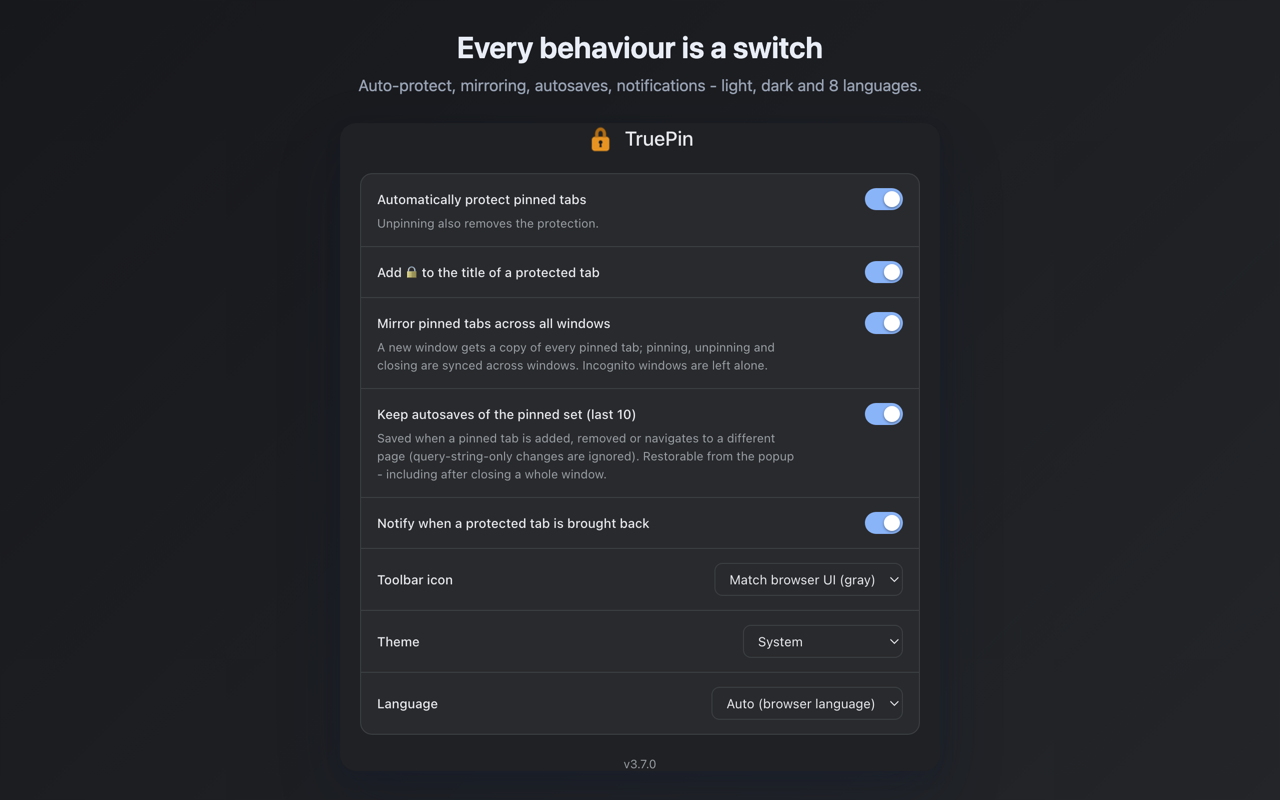
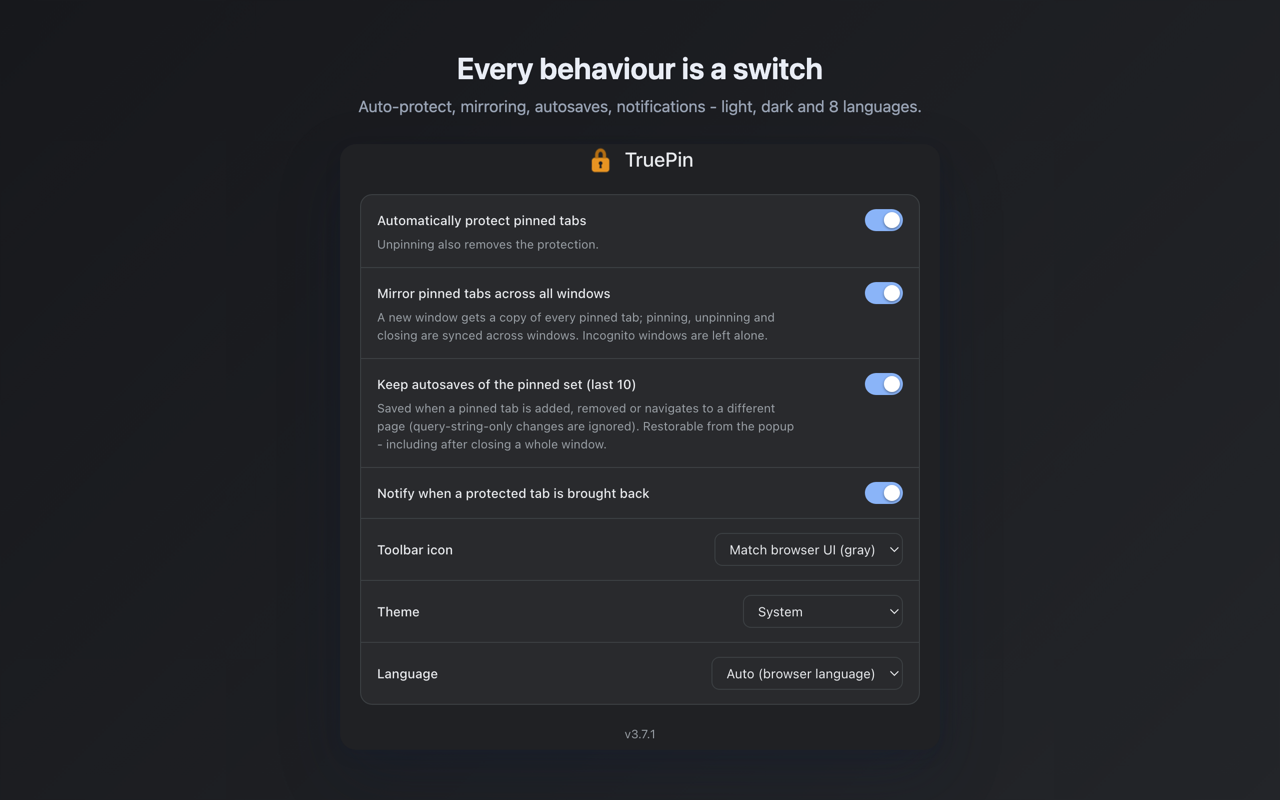
v3.7.1: drop broad host permissions. Removes the content-script that painted a 🔒 in the tab title and, with it, host_permissions <all_urls>, the <all_urls> content script, and the scripting permission. Core protection (reopen-on-close, mirror, sets, sync) runs entirely in the service worker via chro

diff --git a/extension/background.js b/extension/background.js
@@ -29,15 +29,12 @@ importScripts("config.js");
 
 const DEFAULTS = {
   autoLockPinned: true,
-  showIcon: true,
   mirrorPinned: true,
   autoSnapshot: true,
   notifyReopen: true,
   iconStyle: "color", // "color" | "mono" (match browser UI)
   language: "auto",
 };
-
-const SCRIPTABLE = /^(https?|file|ftp):/i;
 // Chrome unpins a pinned tab moments before closing it, firing onUpdated
 // {pinned:false} and only then onRemoved. Within this window an unpin does
 // not yet count as "the user removed protection".
@@ -189,12 +186,6 @@ const quiet = (api, ...args) =>
   );
 
 function applyToTab(tabId, state, settings) {
-  chrome.tabs.sendMessage(
-    tabId,
-    { type: "apply", locked: state.protected, showIcon: settings.showIcon },
-    { frameId: 0 },
-    checked,
-  );
   updateAction(tabId, state.protected, settings);
 }
 
@@ -444,30 +435,19 @@ async function rebuildMirror(settings) {
 }
 
 // --- bootstrap -----------------------------------------------------------
-// On install/update the declared content scripts are NOT injected into tabs
-// that are already open. Inject programmatically into everything scriptable.
-async function bootstrapAll(injectScripts) {
+async function bootstrapAll() {
   const settings = await getSettings();
   const tabs = await chrome.tabs.query({});
   for (const tab of tabs) {
     if (tab.id === undefined || tab.id === chrome.tabs.TAB_ID_NONE) continue;
     await refreshTab(tab, settings);
-    if (injectScripts && SCRIPTABLE.test(tab.url || "") && !tab.discarded) {
-      chrome.scripting
-        .executeScript({
-          target: { tabId: tab.id },
-          files: ["content.js"],
-          injectImmediately: true,
-        })
-        .catch(() => {}); // restricted or unloaded pages
-    }
   }
   await rebuildMirror(settings);
   scheduleAutoSnapshot();
 }
 
-chrome.runtime.onInstalled.addListener(() => enqueue(() => bootstrapAll(true), "installed"));
-chrome.runtime.onStartup.addListener(() => enqueue(() => bootstrapAll(false), "startup"));
+chrome.runtime.onInstalled.addListener(() => enqueue(() => bootstrapAll(), "installed"));
+chrome.runtime.onStartup.addListener(() => enqueue(() => bootstrapAll(), "startup"));
 
 // Settings changed (options page) - recompute every tab, reload language.
 chrome.storage.onChanged.addListener((changes, area) => {
@@ -528,23 +508,6 @@ chrome.runtime.onMessage.addListener((request, sender, sendResponse) => {
   if (request.type.startsWith("ui:")) {
     enqueue(() => handleUi(request).then(sendResponse), request.type);
     return true;
-  }
-
-  if (!sender.tab || sender.tab.id === undefined || sender.tab.id < 0) return;
-  const tab = sender.tab;
-
-  if (request.type === "hello") {
-    enqueue(async () => {
-      const settings = await getSettings();
-      const state = (await getTabState(tab.id)) || newTabState(tab);
-      state.pinned = !!tab.pinned;
-      if (tabUrl(tab)) state.url = tabUrl(tab);
-      state.protected = computeProtected(state, settings);
-      await putTabState(tab.id, state);
-      updateAction(tab.id, state.protected, settings);
-      sendResponse({ locked: state.protected, showIcon: settings.showIcon });
-    }, "hello");
-    return true; // async sendResponse
   }
 });
 

diff --git a/extension/options.html b/extension/options.html
@@ -260,13 +260,6 @@
 
         <div class="setting">
           <label>
-            <span data-i18n="optShowIcon"></span>
-            <input type="checkbox" id="showIcon" class="switch" />
-          </label>
-        </div>
-
-        <div class="setting">
-          <label>
             <span data-i18n="optMirror"></span>
             <input type="checkbox" id="mirrorPinned" class="switch" />
           </label>

diff --git a/extension/options.js b/extension/options.js
@@ -1,7 +1,6 @@
 // TruePin - options page. Saves on change, no Save button.
 const DEFAULTS = {
   autoLockPinned: true,
-  showIcon: true,
   mirrorPinned: true,
   autoSnapshot: true,
   notifyReopen: true,

diff --git a/README.md b/README.md
@@ -51,7 +51,7 @@ Pinned tabs form logical groups, and every group is present in every normal wind
 After a `git pull` with changes, hit Reload on the extension card. If the repository folder moves, remove the extension and load it again from the new path.
 
 ## Settings
-Auto-protect pinned tabs (on) - 🔒 in the title (on) - mirror across windows (on) - autosaves (on) - notification on reopen (on) - toolbar icon: color or gray matching the browser UI - language (auto-detect plus manual choice: en, ru, uk, de, fr, es, pt, zh). A manual lock lasts until the browser session ends.
+Auto-protect pinned tabs (on) - mirror across windows (on) - autosaves (on) - notification on reopen (on) - toolbar icon: color or gray matching the browser UI - language (auto-detect plus manual choice: en, ru, uk, de, fr, es, pt, zh). A manual lock lasts until the browser session ends.
 
 ## Support
 TruePin is free and complete - nothing is paywalled, ever.
@@ -62,7 +62,7 @@ TruePin is free and complete - nothing is paywalled, ever.
 - A reopened tab gets a new tab id; for pages without a `chrome.sessions` entry the re-create fallback loses the back/forward history (the page and URL survive).
 
 ## Development
-- `extension/` - MV3: `background.js` (reopen-protection, mirror groups, sets and autosaves), `content.js` (the 🔒 title prefix only), `popup.*` (UI), `options.*`, `i18n.js` + `_locales/` (8 languages), `icons/`.
+- `extension/` - MV3: `background.js` (reopen-protection, mirror groups, sets and autosaves), `popup.*` (UI), `options.*`, `i18n.js` + `_locales/` (8 languages), `icons/`. No content scripts and no host permissions - the protection runs entirely from the service worker via `chrome.tabs`/`chrome.sessions`.
 - Tests: `cd test && npm install && npm test` - e2e on puppeteer against a real Chrome for Testing: 26 scenarios (immortality under every close method, repeated closes, the reopen notification, free reload/navigation, the unpin-then-close path, manual lock carried over to the reopened tab, regular tabs untouched, settings, the global toggle from the popup, the state-driven popup lock (real protection, not the title prefix), snapshot diff-restore, autosave triggers, popup rendering incl. long set names, mirroring across three windows, adoption without duplicates, the ephemeral split-view partner rule, the split-view picker rule (never registered, never resurrected, poisoned autosaves sanitized on read), extension reload without duplicates (simulated; the repro test is proven to fail on the old code), mirror off, localization, a clean service worker log). `HEADFUL=1 npm test` to watch.
 - `test/shot.mjs <out.png>` - a popup screenshot with real data (for UI work).
 - Live diagnostics: `chrome://extensions` - service worker - console, the `__tpDiag` object (job queue and a trace of recent events).